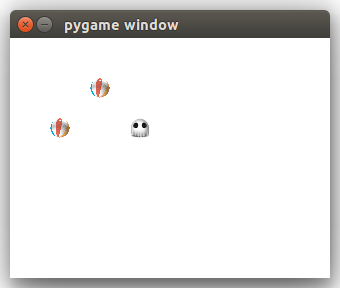
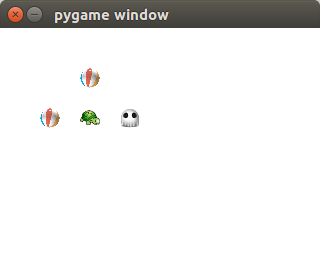
restored lost images
Former-commit-id: 40291d3aba9b4f5acf4d245f6eeedc2e56f717d1

diff --git a/intro.html b/intro.html
@@ -190,7 +190,7 @@ URL: https://code.google.com/p/io-2012-slides
         
       </figure><ul>
 <li><em>Fondamenti di informatica e lab.</em> (A.A. 2014-2015). McGraw-Hill custom publishing. ISBN 978-13-082-4813-4 (~25€, 250pp., nelle <a href="http://www.informagiovanionline.it/emiliaromagna/parma/tempo-libero/godersi-larte-e-la-cultura/libri-in-rete/librerie-scolastiche-e-universitarie-parma">librerie universitarie</a> )</li>
-<li>A.B. Downey et al.: How to Think Like a Computer Scientist: Learning with Python 3, 3rd Edition - <a href="http://openbookproject.net/thinkcs/">http://openbookproject.net/thinkcs/</a></li>
+<li>A.B. Downey et al.: <em>How to Think Like a Computer Scientist</em>: Learning with Python 3, 3rd Edition - <a href="http://openbookproject.net/thinkcs/">http://openbookproject.net/thinkcs/</a></li>
 <li>M. Beri: <em>Python</em>, Apogeo Pocket, 2010, 978-8850329151 (~8€)</li>
 <li>C. S. Horstmann: <em>Fondamenti di C++</em>, McGraw-Hill Education, 2003, 978-8838661051 (~43€, 768pp.)</li>
 </ul></article>
@@ -208,7 +208,7 @@ URL: https://code.google.com/p/io-2012-slides
 <li>M. Dawson: <em>Python Programming for the Absolute Beginner</em>, Course Technology, 2010, 978-1435455009 (~21€, 450pp.)</li>
 <li>K. A. Lambert: <em>Programmazione in Python</em>, Apogeo, 2012, 978-8838786990 (~29€, 384pp.)</li>
 <li>MIT: <em>Introduction to CS and Programming</em> - Video delle lezioni, Pyhton 2 - <a href="http://ocw.mit.edu/courses/electrical-engineering-and-computer-science/">http://ocw.mit.edu/courses/electrical-engineering-and-computer-science/</a> <br/> <br/></li>
-<li>M. Dawson: <em>Beginning C++ Through Game Programming</em>, Course Technology, 2010, 978-1435457423 (~25€, 430pp.)</li>
+<li>M. Dawson: <em>Beginning C++ Through Game Programming</em>, 4th Edition, Course Technology, 2014, 978-1305109919 (~36€, 390pp.)</li>
 <li>A. Lorenzi, V. Moriggia: <em>Programmazione ad oggetti e linguaggio C++</em>, Atlas, 2004, 978-8826811956 - Testo per le superiori (~12€, 380pp.)</li>
 <li>S.B. Lippman, J. Lajoie, B.E. Moo: <em>C++ Primer</em>, Addison Wesley, 2012, 978-0321714114 (~36€, 940pp.)</li>
 </ul></article>
@@ -252,6 +252,64 @@ URL: https://code.google.com/p/io-2012-slides
       <h3></h3>
     </hgroup>
   
+</slide>
+
+<slide  >
+  
+    <hgroup>
+      <h2>Pac-Man</h2>
+      <h3></h3>
+    </hgroup>
+    <article >
+      <figure>
+        <img src="images/misc/pac-man.png">
+        
+      </figure><ul>
+<li><em>Pac-Man</em><ul>
+<li>Guidato dal giocatore, con la tastiera</li>
+<li>Applica i comandi solo solo agli incroci</li>
+</ul>
+</li>
+<li><em>Fantasmi</em><ul>
+<li>Uccidono Pac-Man se lo toccano</li>
+<li>Agli incroci svoltano casualmente</li>
+<li>Ma non tornano mai indietro!</li>
+</ul>
+</li>
+<li><em>Biscotti</em><ul>
+<li>Pac-Man deve mangiarli tutti, per terminare il gioco</li>
+</ul>
+</li>
+<li><em>SuperBiscotti</em><ul>
+<li>Danno per breve tempo a Pac-Man il potere di mangiare i fantasmi</li>
+</ul>
+</li>
+</ul></article>
+ 
+</slide>
+
+<slide  >
+  
+    <hgroup>
+      <h2>Slitherlink</h2>
+      <h3></h3>
+    </hgroup>
+    <article >
+      <figure>
+        <img src="images/misc/slitherlink.png">
+        
+      </figure><ul>
+<li>Regole<ul>
+<li>Connect adjacent dots with vertical or horizontal lines to make a single loop</li>
+<li>The numbers indicate how many lines surround it, while empty cells may be surrounded by any number of lines</li>
+<li>The loop never crosses itself and never branches off</li>
+</ul>
+</li>
+</ul>
+<blockquote></blockquote>
+<p><a href="http://www.nikoli.com/en/puzzles/slitherlink/">http://www.nikoli.com/en/puzzles/slitherlink/</a></p>
+<p><a href="https://www.brainbashers.com/slitherlinkhelp.asp">https://www.brainbashers.com/slitherlinkhelp.asp</a></p></article>
+ 
 </slide>
 
 <slide  >

diff --git a/p4-oggetti.html b/p4-oggetti.html
@@ -222,6 +222,54 @@ Ball.move(b1)
 <slide  >
   
     <hgroup>
+      <h2>Animazione di due palline</h2>
+      <h3></h3>
+    </hgroup>
+    <article >
+      <pre class="prettyprint" data-lang="python"><code>from game2d import *
+from p4_ball import Ball
+
+def update():
+    canvas_fill(canvas, (255, 255, 255))  # BG
+    b1.move()
+    b2.move()
+    draw_rect(canvas, (127, 127, 127), b1.rect())  # FG
+    draw_rect(canvas, (127, 127, 127), b2.rect())  # FG
+
+b1 = Ball(40, 80)
+b2 = Ball(80, 40)
+canvas = canvas_init((Ball.ARENA_W, Ball.ARENA_H))
+timer.set_interval(update, 1000 // 30)  # Millis
+</code></pre></article>
+ 
+</slide>
+
+<slide  >
+  
+    <hgroup>
+      <h2>Animazione lista di palline</h2>
+      <h3></h3>
+    </hgroup>
+    <article >
+      <pre class="prettyprint" data-lang="python"><code>from game2d import *
+from p4_ball import Ball
+
+def update():
+    canvas_fill(canvas, (255, 255, 255))  # BG
+    for b in balls:
+        b.move()
+        draw_rect(canvas, (127, 127, 127), b.rect())  # FG
+
+balls = [Ball(40, 80), Ball(80, 40), Ball(120, 120)]
+canvas = canvas_init((Ball.ARENA_W, Ball.ARENA_H))
+timer.set_interval(update, 1000 // 30)  # Millis
+</code></pre></article>
+ 
+</slide>
+
+<slide  >
+  
+    <hgroup>
       <h2>Proprietà</h2>
       <h3></h3>
     </hgroup>
@@ -492,10 +540,94 @@ arena.move_all()
   
     <aside class="gdbar"><img src="images/logo.png"></aside>
     <hgroup class="auto-fadein">
-      <h2>Grafica con Pygame</h2>
+      <h2>Animazione dei personaggi</h2>
       <h3></h3>
     </hgroup>
   
+</slide>
+
+<slide  >
+  
+    <hgroup>
+      <h2>Animazione nel browser</h2>
+      <h3></h3>
+    </hgroup>
+    <article >
+      <pre class="prettyprint" data-lang="python"><code>from game2d import *
+
+def update():
+    global x
+    canvas_fill(canvas, (255, 255, 255))  # Draw background        
+    image_blit(canvas, image, (x, 50))    # Draw foreground
+    x = (x + 5) % 320                     # Update ball's position
+
+canvas = canvas_init((320, 240))
+image = image_load("ball.png")
+x = 50
+
+timer.set_interval(update, 1000 // 30)    # Call update 30 times/second
+</code></pre></article>
+ 
+</slide>
+
+<slide  >
+  
+    <hgroup>
+      <h2>Rimbalzi nel browser</h2>
+      <h3></h3>
+    </hgroup>
+    <article >
+      <figure>
+        <img src="images/oop/bounce.png">
+        
+      </figure><pre class="prettyprint" data-lang="python"><code>from game2d import *
+from bounce import Arena, Ball, Ghost, Turtle
+
+def update():
+    arena.move_all()  # Game logic
+    canvas_fill(canvas, (255, 255, 255))  # Background
+    for a in arena.actors():
+        x, y, w, h = a.rect();  xs, ys = a.symbol()
+        # Foreground; cut an area from a larger image
+        image_blit(canvas, sprites, (x, y), area=(xs, ys, w, h))
+
+arena = Arena(320, 240)
+Ball(arena, 40, 80);  Ball(arena, 80, 40);  Ghost(arena, 120, 80)
+turtle = Turtle(arena, 80, 80)
+canvas = canvas_init(arena.size())
+sprites = image_load("sprites.png")
+timer.set_interval(update, 1000 // 30)  # Millis
+</code></pre></article>
+ 
+</slide>
+
+<slide  >
+  
+    <hgroup>
+      <h2>Eventi nel browser</h2>
+      <h3></h3>
+    </hgroup>
+    <article >
+      <figure>
+        <img src="images/oop/bounce.png">
+        
+      </figure><pre class="prettyprint" data-lang="python"><code>def keydown(e):
+    if e.keyCode == K_UP:
+        turtle.go_up()
+    elif e.keyCode == K_DOWN:
+        turtle.go_down()
+    elif e.keyCode == K_LEFT:
+        turtle.go_left()
+    elif e.keyCode == K_RIGHT:
+        turtle.go_right()
+
+def keyup(e):
+    turtle.stay()
+
+doc.onkeydown = keydown
+doc.onkeyup = keyup
+</code></pre></article>
+ 
 </slide>
 
 <slide  >

diff --git a/p2-sequenze.html b/p2-sequenze.html
@@ -327,15 +327,19 @@ a, b = b, a
       </figure><pre class="prettyprint" data-lang="python"><code>from game2d import *
 
 # New canvas, width=600, height=400
-canvas = screen_set_mode((600, 400))
+canvas = canvas_init((600, 400))
 
-# Yellow rectangle: red=255, green=255, blue=0
-# left=100, top=150, w=250, h=200
+# Yellow rectangle, left=100, top=150, w=250, h=200
+# red=255 (max), green=255 (max), blue=0 (min)
 draw_rect(canvas, (255, 255, 0), (100, 150, 250, 200))
 
 # Blue circle, center=(100, 150), radius=20
 draw_circle(canvas, (0, 0, 255), (100, 150), 20)
-</code></pre></article>
+</code></pre>
+<p>Color: <code>(red, green, blue)</code><br>
+Point: <code>(x, y)</code><br>
+Size: <code>(width, height)</code><br>
+Rect: <code>(left, top, width, height)</code></p></article>
  
 </slide>
 
@@ -350,15 +354,15 @@ draw_circle(canvas, (0, 0, 255), (100, 150), 20)
 
 def update():
     global x
-    screen_fill(canvas, (255, 255, 255))  # Draw background        
+    canvas_fill(canvas, (255, 255, 255))  # Draw background        
     image_blit(canvas, image, (x, 50))    # Draw foreground
-    x = (x + 5) % 320                  # Update ball's position
+    x = (x + 5) % 320                     # Update ball's position
 
-canvas = screen_set_mode((320, 240))
+canvas = canvas_init((320, 240))
 image = image_load("ball.png")
 x = 50
 
-timer.set_interval(update, 30)         # Call update 30 times/second
+timer.set_interval(update, 1000 // 30)    # Call update 30 times/second
 </code></pre></article>
  
 </slide>
